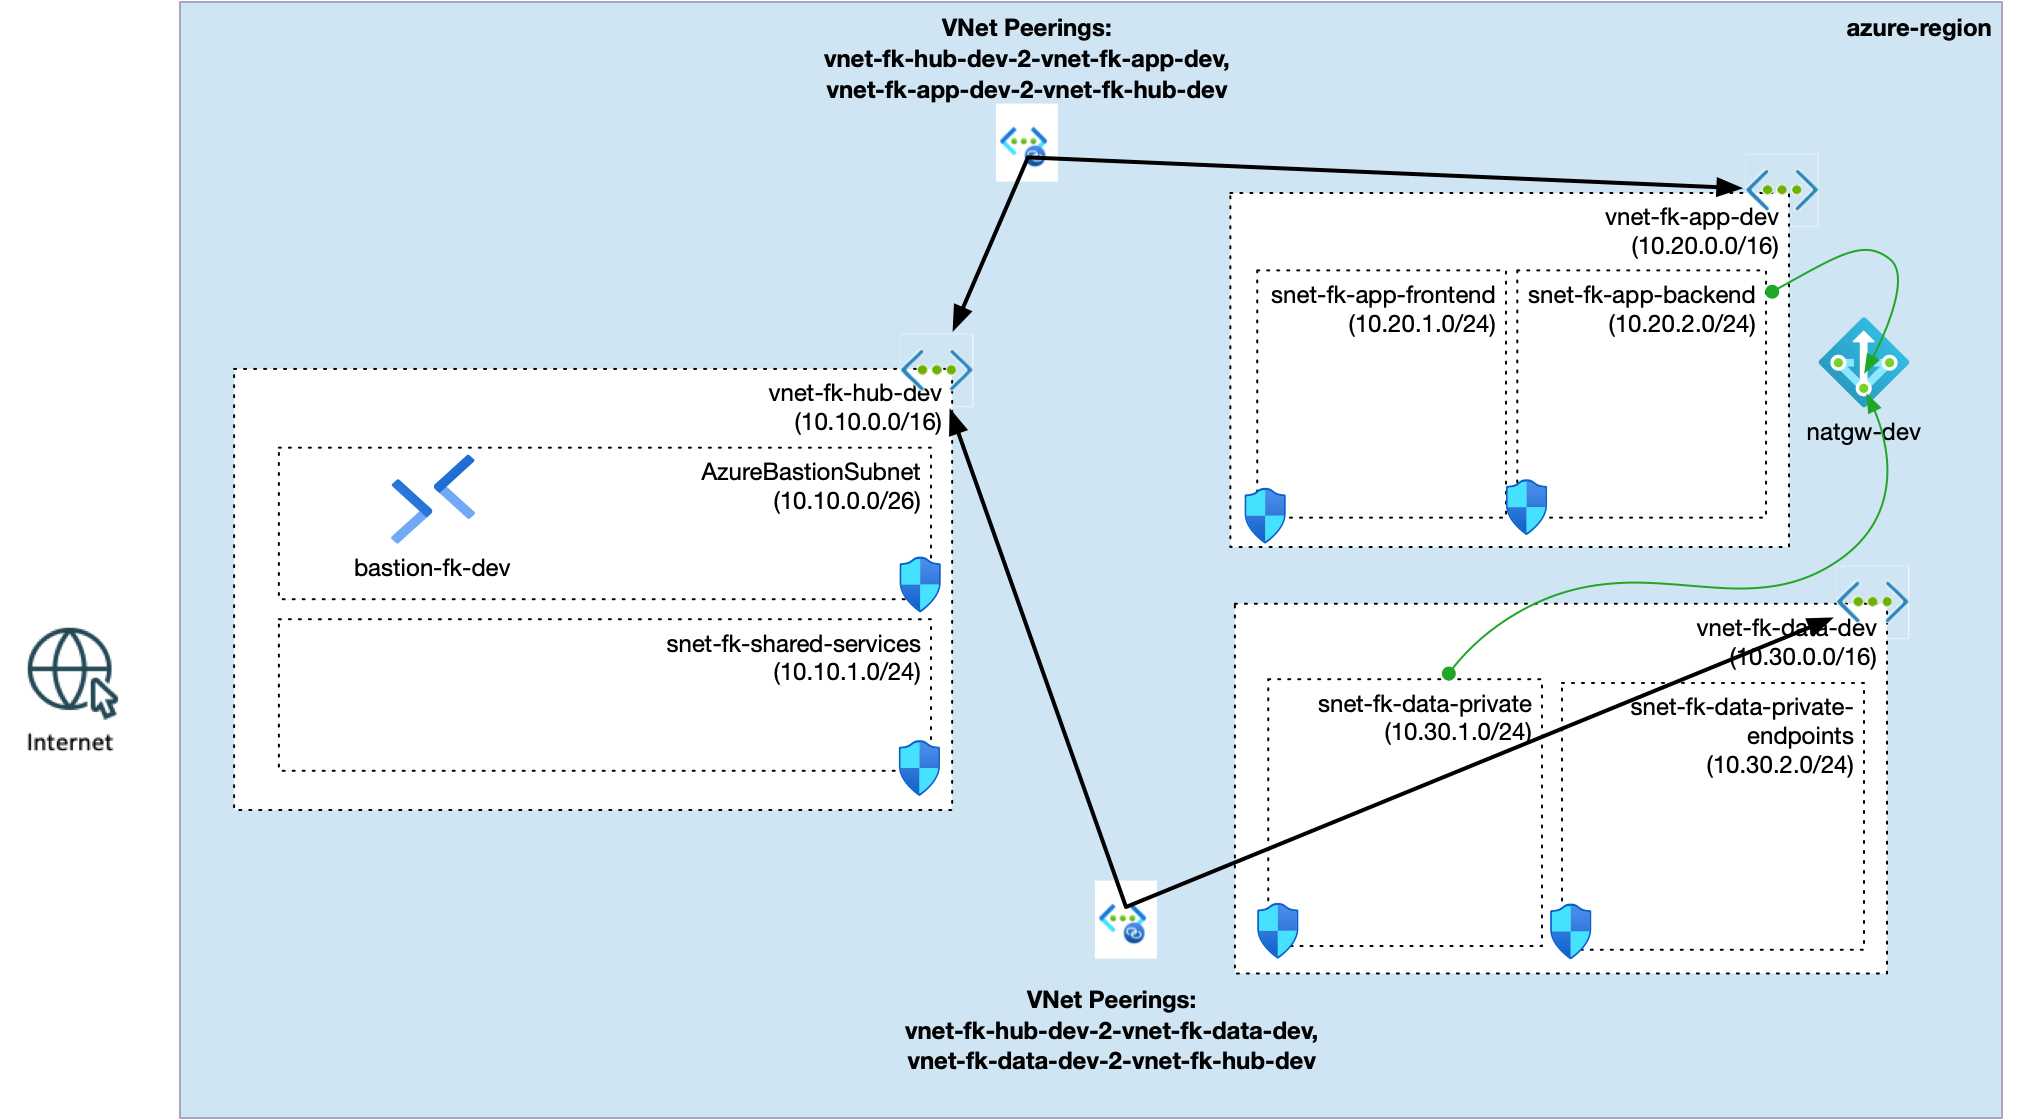
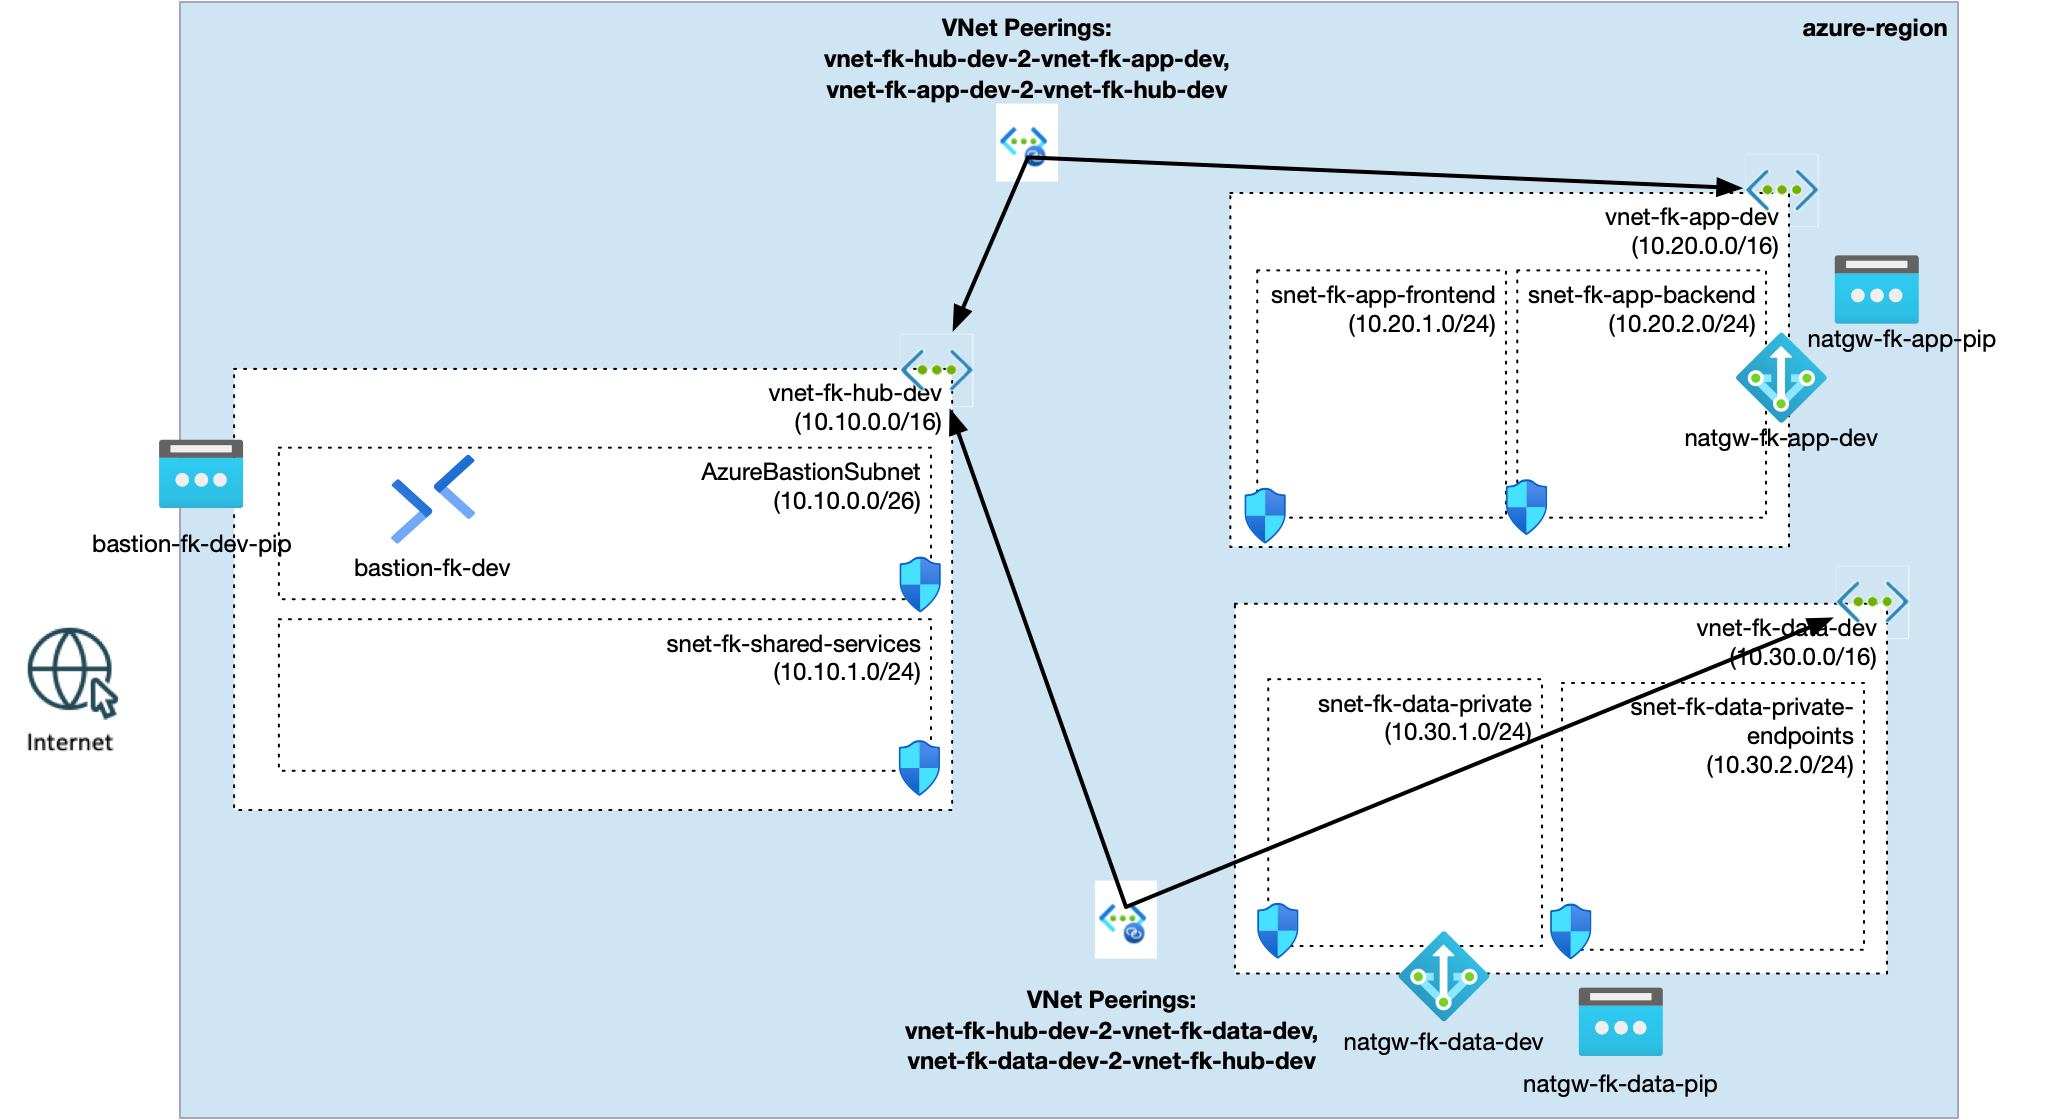
Fix Azure hub-spoke basic deployment and docs

diff --git a/examples/azure/networking/hub_spoke/basic/README.md b/examples/azure/networking/hub_spoke/basic/README.md
@@ -4,6 +4,8 @@ This example provides one payload for the shared **Azure hub-and-spoke orchestra
 
 ![Azure hub-and-spoke architecture](diagrams/azure-hub-spoke-basic-architecture.png)
 
+![Azure Portal view of the deployed basic hub-and-spoke landing zone](diagrams/azure-hub-spoke-basic-portal1.png)
+
 ---
 
 ## 🎯 Purpose
@@ -31,6 +33,19 @@ This example composes:
 - NAT Gateway on selected private subnets
 - Azure Bastion in the hub
 - reserved application and data subnets for future workload patterns
+
+---
+
+## 🖼️ Azure Portal View
+
+The screenshot above shows the deployed `basic` scaffold in Azure Portal after a successful `apply`.
+
+One portal screenshot is enough here as long as it clearly shows:
+
+- the resource group scope
+- the hub and two spoke VNets
+- Bastion
+- both NAT Gateways and their Public IPs
 
 ---
 

diff --git a/examples/azure/networking/hub_spoke/basic/diagrams/README.md b/examples/azure/networking/hub_spoke/basic/diagrams/README.md
@@ -9,6 +9,7 @@ This directory stores **architecture images and related visual assets** for the 
 Current assets:
 
 - [`azure-hub-spoke-basic-architecture.png`](azure-hub-spoke-basic-architecture.png)
+- [`azure-hub-spoke-basic-portal1.png`](azure-hub-spoke-basic-portal1.png)
 
 The main example README embeds this diagram directly:
 